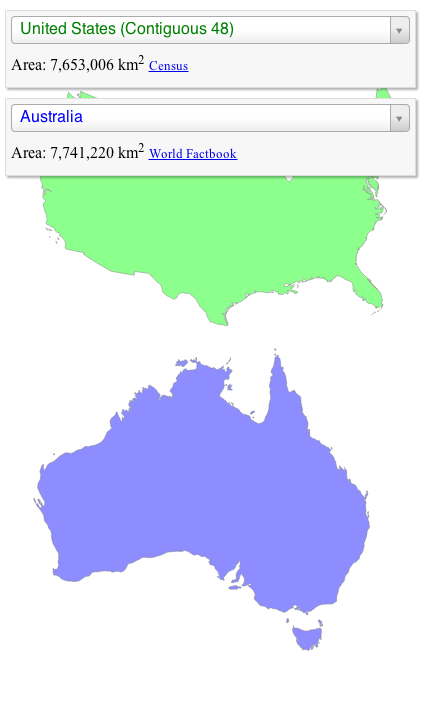
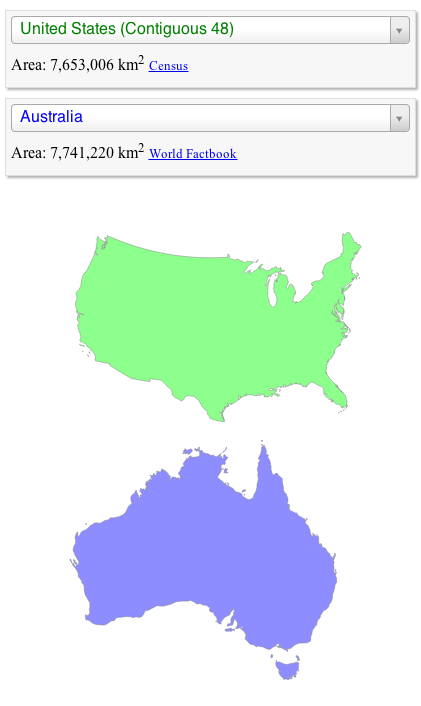
Fix mobile layout and update screenshots

diff --git a/comparea/static/js/comparea.js b/comparea/static/js/comparea.js
@@ -107,11 +107,12 @@ function getVisibleSvgArea() {
       $sc.length ? $sc.offset().top + $sc.height() : 0;
 
   if (panel.width / windowSize.width > panel.height / windowSize.height) {
+    var t = Math.max(panel.height, comparisonBottom);
     return {
-      top: comparisonBottom,  // comparison is below panels.
+      top: t,  // comparison is below panels.
       left: 0,
       width: windowSize.width,
-      height: windowSize.height - comparisonBottom
+      height: windowSize.height - t
     };
   } else {
     return {
